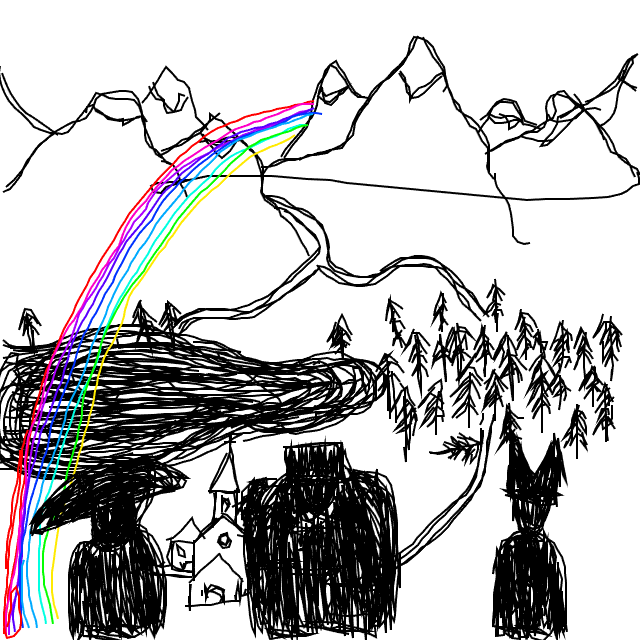
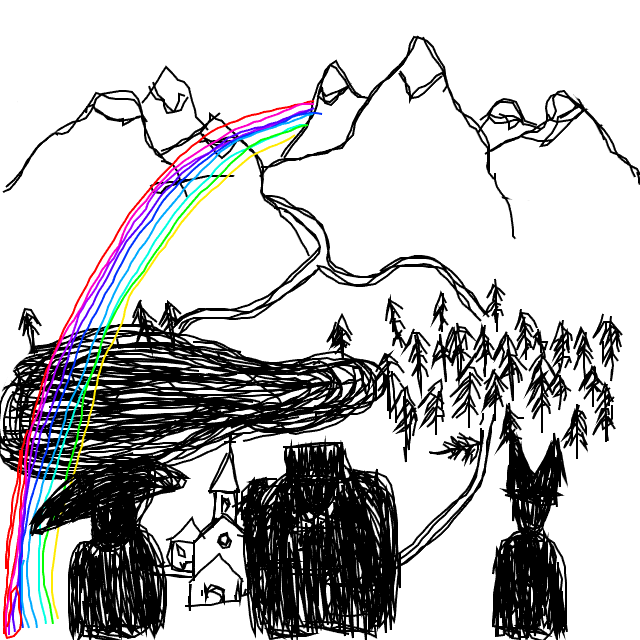
added backgrounds for levels, got rid of pauses next/back inside levels, health and difficulty tweak, songs play faster

diff --git a/main.js b/main.js
@@ -3,6 +3,10 @@ let screenY = window.innerHeight;
 
 let img_map = 'url(img/map.png)';
 let img_end = 'url(img/end.png)';
+let img_intro = 'url(img/intro.png)';
+let img_forest = 'url(img/forest.png)';
+let img_lake = 'url(img/lake.png)';
+let img_mountain = 'url(img/mountain.png)';
 
 let img_flute = 'url(img/flute.png)';
 let img_drum = 'url(img/drum.png)';
@@ -11,22 +15,21 @@ let img_elake = 'url(img/elake.png)';
 let img_eforest = 'url(img/eforest.png)';
 let img_emountain = 'url(img/emountain.png)';
 
-let levels = {lake: ['#0C7489',5,30,img_elake], forest: ['#5B8E7D',7,15,img_eforest], mountain: ['#94778B',1,40,img_emountain]};
+let levels = {lake: ['#0C7489',5,30,img_elake,img_lake], forest: ['#5B8E7D',7,15,img_eforest,img_forest], mountain: ['#777d94',1,40,img_emountain,img_mountain]};
 let currentlevel = null;
 let levelscene = 0;
 let currentscreen = 'intro';
 
 let enemies = {e1: {hp: 0, sleep: [false,0], mad: [false,0], weak: [false,0]}, e2: {hp: 0, sleep: [false,0], mad: [false,0], weak: [false,0]}, e3: {hp: 0,  sleep: [false,0], mad: [false,0], weak: [false,0]}};
 let currentenemy = 'e1';
-let players = {flute: {hp: 80, songs: [1,1,1], sprite: img_flute}, drum: {hp: 150, songs: [1,1,1], sprite: img_drum}, guitar: {hp: 100, songs: [1,1,1], sprite: img_guitar}};
+let players = {flute: {hp: 100, songs: [1,1,1], sprite: img_flute}, drum: {hp: 160, songs: [1,1,1], sprite: img_drum}, guitar: {hp: 130, songs: [1,1,1], sprite: img_guitar}};
 let currentplayer = null;
 let turn = 'player';
 
 let songs = {flute: [
-  ['Slumber',[0,0,0,0,98,110,98,110,130.81,164.81,220,0,164.81,0,130.81,164.81,196,0,164.81,0,130.81,164.81,174.61,0,164.81,130.81]],
-  ['Love',[0,0,0,0,110,138.595,164.815,207.655,246.945,0,220,246.945,0,220,207.655,138.595,0,123.47,146.835,185,220,277.185,0,246.945,277.185,246.945,0,207.655,220]],
-  ['Folly',[0,0,0,0,207.65,196,155.56,130.81,155.56,130.81,146.83,130.81,155.56,130.81,207.65,130.81,233.08,146.83,207.65,146.83,174.61,146.83,196,174.61,155.56,130.81]]
-], 
+  ['Slumber',[0,0,0,0,196,220,196,220,261.62,329.62,440,0,329.62,0,261.62,329.62,392,0,329.62,0,261.62,329.62,349.22,0,329.62,261.62]],
+  ['Love',[0,0,0,0,220,277.19,329.63,415.31,493.89,0,440,493.89,0,440,415.31,277.19,0,246.94,293.67,370,440,554.37,0,493.89,554.37,493.89,0,415.31,440]],
+  ['Folly',[0,0,0,0,415.30,392,311.12,261.62,311.12,261.62,293.66,261.62,311.12,261.62,415.30,261.62,466.16,293.66,415.30,293.66,349.22,293.66,392,349.22,311.12,261.62]]], 
 guitar: [
   ['Spring',[0,0,0,0,92.50,116.54,174.62,155.56,233.08,207.65,174.62,138.59,116.54,0,77.78,98.00,116.54,174.62,155.56]],
   ['Summer',[0,0,0,0,123.47,123.47,155.56,155.56,164.81,164.81,155.56,155.56,82.41,82.41,155.56,155.56,123.47,123.47,92.5,92.5,116.54,116.54,123.47,123.47]],
@@ -47,7 +50,7 @@ const dry = a_ctx.createGain();
 const wet = a_ctx.createGain();
 const delay = a_ctx.createDelay(1.0);
 const feedback = a_ctx.createGain();
-const instruments = {flute: [0.8,0.9,0.99,0.6], drum: [0.02,0.2,0.99,0.2], guitar: [0.02, 0.35, 0.98, 0.5]};
+const instruments = {flute: [0.8,0.9,0.99,0.5], drum: [0.02,0.2,0.99,0.2], guitar: [0.02, 0.35, 0.98, 0.4]};
 let notehits = 0;
 let targethits = 0;
 
@@ -92,7 +95,7 @@ function draw() {
     let opa = 0;
     ui.background.style.backgroundColor = 'wheat';
     ui.background.style.opacity = opa;
-    loadImg(img_map);
+    loadImg(img_intro);
     ui.background.innerHTML = 'But What Lies Beyond the Mountain';
     let fade = setInterval(() => {
       ui.background.style.opacity = opa;
@@ -121,7 +124,8 @@ function draw() {
     ui.next.hidden = true;
     ui.level.style.display = 'flex';
     ui.background.style.backgroundColor = currentlevel[0];
-    loadImg('none');
+    ui.background.style.backgroundRepeat = 'repeat-x';
+    loadImg(currentlevel[4]);
 
     if (combat) {
       ui.enemies.style.display = 'flex';
@@ -251,19 +255,16 @@ function loadLevel(level) {
 
   if (currentlevel == levels.mountain) {
     combat = true;
-    enemies.e1.hp = 300;
+    enemies.e1.hp = 400;
   }
   else {
-    if (rand(0,4) > 0) {
-      combat = true;
-      const k = Object.keys(enemies);
-      const r = rand(0,2);
-      for (let i = 0; i < 3; i++) {
-        if (i <= r) enemies[k[i]].hp = 100;
-        else enemies[k[i]].hp = 0;
-      }
+    combat = true;
+    const k = Object.keys(enemies);
+    const r = rand(0,2);
+    for (let i = 0; i < 3; i++) {
+      if (i <= r) enemies[k[i]].hp = 100;
+      else enemies[k[i]].hp = 0;
     }
-    else combat = false;
   }
 
   draw();
@@ -332,7 +333,6 @@ function checkStates() {
   const livingPlayer = Object.entries(players).find(([key, player]) => player.hp > 0);
   
   if (livingEnemy) currentenemy = livingEnemy[0];
-  if (livingPlayer) currentplayer = livingPlayer[0];
 
   if (turn == 'enemy') {
     Object.values(enemies).forEach(e => {
@@ -578,7 +578,7 @@ function loadSong(s) {
       draw();
       note++;
     }
-  },500)
+  },400)
 }
 
 function playKey(k) {

diff --git a/style.css b/style.css
@@ -78,8 +78,8 @@ button:disabled {
 }
 
 #mountain {
-  top: 10vh;
-  left: 40vw;
+  top: 32vh;
+  left: 45vw;
 }
 
 #back, #next {
